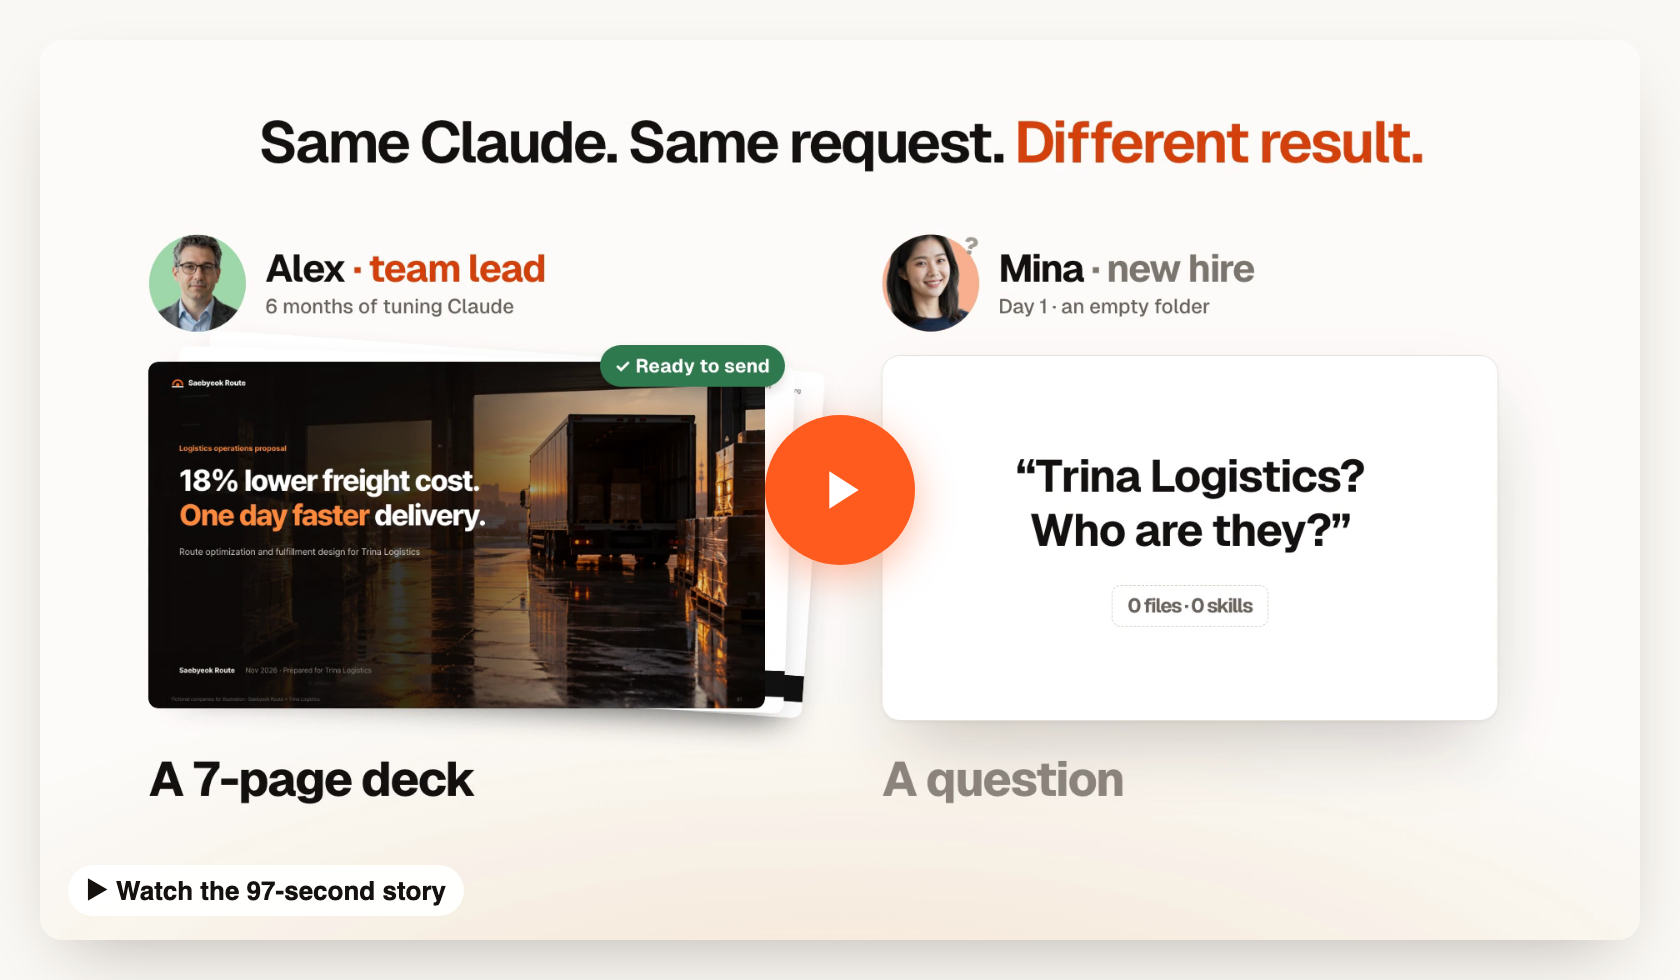
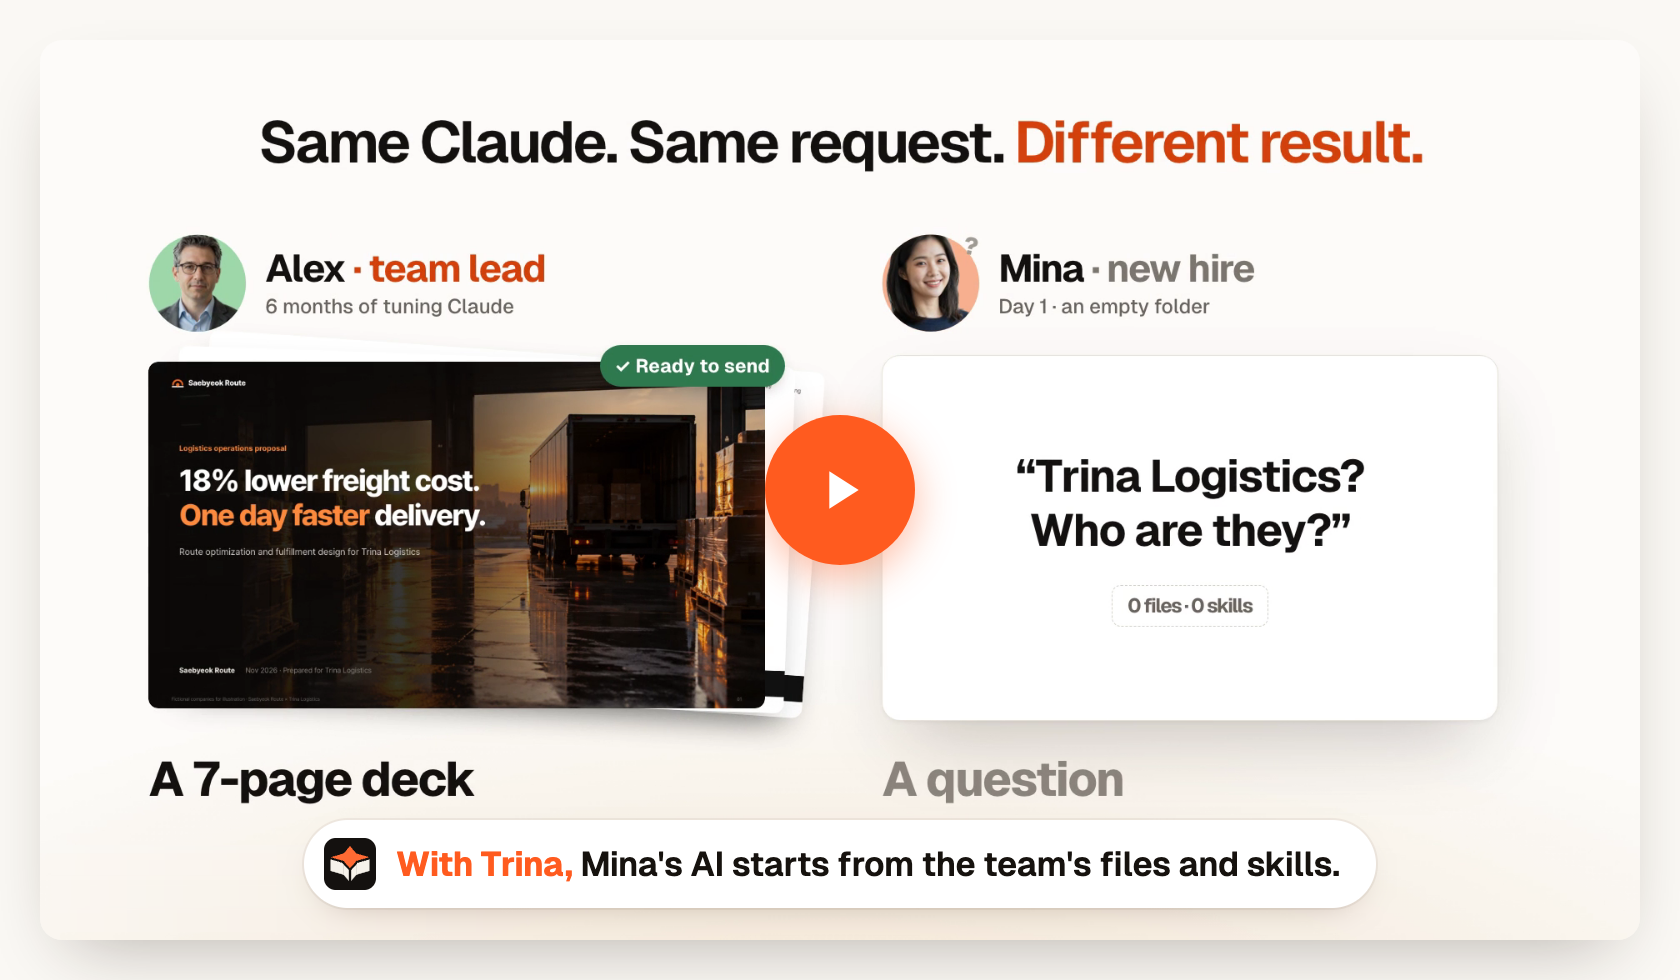
README: one film, one GIF, one picture, then short lines
Like the open-source READMEs people star most: the headline is the claim,
the store badges sit side by side at one height, the film card ends with
what Trina changes, and the cropped screenshot grid is replaced by a GIF of
"send to room" (recorded at README width, so its text stays readable), the
permissions picture and five one-line features.

Changed region(s): [[0.031, 0.8571, 0.8048, 0.949]]

diff --git a/README.md b/README.md
@@ -1,54 +1,43 @@
 <div align="center">
 
-<img src="web/public/favicon.svg" width="72" alt="Trina AX logo">
+<img src="web/public/favicon.svg" width="64" alt="Trina AX logo">
 
-# Trina AX
+<h1>The AI your whole team shares.</h1>
 
-**The AI your whole team shares.**
+Trina AX puts your team's files, skills and tools on one server. Everyone's AI starts from them,<br>and every file it opens is checked as the person who asked.
 
-Your team's files, skills and tools on one server. Everyone's AI starts from them.
+<a href="https://apps.apple.com/app/trina-ax/id6829192435"><img src="docs/images/readme/v3/badge-app-store.svg" height="40" alt="Download on the App Store"></a>&nbsp;&nbsp;<a href="https://play.google.com/store/apps/details?id=app.trina.ax"><img src="docs/images/readme/v3/badge-google-play.png" height="40" alt="Get it on Google Play"></a>
 
-[Website](https://ax.trina.app) · [Download](https://ax.trina.app/download) · [Docs](docs/README.md) · [Discord](https://discord.gg/zUVfSR8MVk) · [X](https://x.com/trina_ax)
-
-<a href="https://apps.apple.com/app/trina-ax/id6829192435"><img src="docs/images/readme/v3/badge-app-store.svg" height="40" alt="Download on the App Store"></a>&nbsp;<a href="https://play.google.com/store/apps/details?id=app.trina.ax"><img src="docs/images/readme/v3/badge-google-play.png" height="58" alt="Get it on Google Play" align="top"></a>
+[Website](https://ax.trina.app) · [Download for Mac and Windows](https://ax.trina.app/download) · [Docs](docs/README.md) · [Discord](https://discord.gg/zUVfSR8MVk)
 
 English · [한국어](README.ko.md) · [日本語](README.ja.md) · [Español](README.es.md) · [简体中文](README.zh-CN.md)
 
-</div>
-
 <br>
 
-<a href="https://ax.trina.app/#watch"><img src="docs/images/readme/v3/film.png" width="100%" alt="Watch the 97-second story: Alex, a team lead, gets a 7-page proposal from one line; Mina, on her first day, asks the same and her AI answers 'Trina Logistics? Who are they?'"></a>
+<a href="https://ax.trina.app/#watch"><img src="docs/images/readme/v3/film.png" width="100%" alt="Watch the 97-second story. Same Claude, same request, different result: Alex, a team lead, gets a 7-page deck; Mina, on her first day with an empty folder, gets 'Trina Logistics? Who are they?'. With Trina, Mina's AI starts from the team's files and skills."></a>
 
-<p align="center"><sub>A new hire's AI starts in an empty folder. Trina gives it the team's.</sub></p>
-
-## How it works
-
-<img src="docs/images/readme/v3/how.png" width="100%" alt="1 Add your files and skills: a Files window with who can open each folder and the Customer quote skill's four steps. 2 Connect your tools: Higgsfield, Notion, Linear, GitHub and your company API go through your Trina server, checked per person; a deck made with Higgsfield photos. 3 Invite your team: Mina, Alex and Sam ask from their own devices, all to one Trina server with their own access.">
+</div>
 
 ## What your team gets
 
-<img src="docs/images/readme/v3/room.png" width="100%" alt="Ask beside any room, send in one click: in the Expo booth crew room, Mina asks Trina in a side chat only she sees, then sends the answer into the room.">
+**Ask beside any room, send in one click.** A side chat only you see; one click sends Trina's answer into the room.
 
-<p>
-<img src="docs/images/readme/v3/access.png" width="49%" alt="Each person sees only what they may open: folders with the faces of who can open them; Mina can't open shared/Finance.">
-<img src="docs/images/readme/v3/handoff.png" width="49%" alt="Pick up a teammate's AI chat: Sam continues Mina's project chat, with his own access.">
-</p>
+<img src="docs/images/readme/v3/room.gif" width="100%" alt="In the Expo booth crew room, Mina asks Trina in a side chat only she sees when move-in is on Nov 17, clicks Send to room, and the answer lands in the room.">
 
-<p>
-<img src="docs/images/readme/v3/skills.png" width="32%" alt="Write down how your team works: the team lead's Customer quote skill, used by Mina, Sam and Jordan.">
-<img src="docs/images/readme/v3/tools.png" width="32%" alt="Connect the tools you use: any MCP server, Google Drive, Slack, your company API.">
-<img src="docs/images/readme/v3/versions.png" width="32%" alt="Every change is kept: Price sheet.xlsx versions by Alex, Mina and Sam, including one saved during an AI answer, with Restore.">
-</p>
+**Each person sees only what they may open.** Mina can't open Finance, so neither can her AI. [How permissions work](docs/PERMISSIONS.md)
 
-<img src="docs/images/readme/v3/access-answers.png" width="100%" alt="Alex and Mina ask 'What was our revenue last quarter?'. Alex can open Finance and gets $498,000; Mina can't, so her AI says it couldn't find revenue figures in the files she can open.">
+<img src="docs/images/readme/v3/access-band.png" width="100%" alt="Folders with the faces of who can open them; Mina can't open shared/Finance.">
 
-Every file the AI opens is checked as the person who asked. [How permissions work](docs/PERMISSIONS.md)
+- 🤝 **Pick up a teammate's AI chat.** Continue their project chat; your turns run with your access.
+- 📋 **Team skills.** Write down how your team works once; everyone's AI follows it.
+- 🔌 **Your tools.** Any MCP server, Google Drive, Slack and your company API, checked per person.
+- 🕘 **Every change is kept.** By a person or their AI; bring back any version.
+- 📱 **Every device.** Mac, iPhone, Android, Windows and any browser.
 
 ## Get started
 
-- **Trina hosting:** no server to run. 14-day free trial, then a monthly plan. [Plans](https://ax.trina.app/#pricing)
-- **Apps:** Mac, iPhone, Android and Windows, or any browser. [Download](https://ax.trina.app/download)
+- **Trina hosting:** no server to run. 14-day free trial, then a monthly plan. [Pricing](https://ax.trina.app/pricing)
+- **Apps:** [Mac, iPhone, Android and Windows](https://ax.trina.app/download), or any browser.
 - **Self-host:** your own Linux server, Docker or an office Mac. Free. [Linux](docs/INSTALL-LINUX.en.md) · [Docker](docs/INSTALL-DOCKER.md) · [Office Mac](docs/OFFICE.en.md)
 
 <details>

diff --git a/README.es.md b/README.es.md
@@ -10,7 +10,7 @@ Los archivos, las skills y las herramientas de tu equipo en un solo servidor. La
 
 [Sitio web](https://ax.trina.app) · [Descargar](https://ax.trina.app/download) · [Documentación](docs/README.md) · [Discord](https://discord.gg/zUVfSR8MVk) · [X](https://x.com/trina_ax)
 
-<a href="https://apps.apple.com/app/trina-ax/id6829192435"><img src="docs/images/readme/v3/badge-app-store.svg" height="40" alt="Descargar en el App Store"></a>&nbsp;<a href="https://play.google.com/store/apps/details?id=app.trina.ax"><img src="docs/images/readme/v3/badge-google-play.png" height="58" alt="Disponible en Google Play" align="top"></a>
+<a href="https://apps.apple.com/app/trina-ax/id6829192435"><img src="docs/images/readme/v3/badge-app-store.svg" height="40" alt="Descargar en el App Store"></a>&nbsp;<a href="https://play.google.com/store/apps/details?id=app.trina.ax"><img src="docs/images/readme/v3/badge-google-play.png" height="40" alt="Disponible en Google Play"></a>
 
 [English](README.md) · [한국어](README.ko.md) · [日本語](README.ja.md) · Español · [简体中文](README.zh-CN.md)
 

diff --git a/README.ja.md b/README.ja.md
@@ -10,7 +10,7 @@
 
 [Web サイト](https://ax.trina.app) · [ダウンロード](https://ax.trina.app/download) · [ドキュメント](docs/README.md) · [Discord](https://discord.gg/zUVfSR8MVk) · [X](https://x.com/trina_ax)
 
-<a href="https://apps.apple.com/app/trina-ax/id6829192435"><img src="docs/images/readme/v3/badge-app-store.svg" height="40" alt="App Store からダウンロード"></a>&nbsp;<a href="https://play.google.com/store/apps/details?id=app.trina.ax"><img src="docs/images/readme/v3/badge-google-play.png" height="58" alt="Google Play で手に入れよう" align="top"></a>
+<a href="https://apps.apple.com/app/trina-ax/id6829192435"><img src="docs/images/readme/v3/badge-app-store.svg" height="40" alt="App Store からダウンロード"></a>&nbsp;<a href="https://play.google.com/store/apps/details?id=app.trina.ax"><img src="docs/images/readme/v3/badge-google-play.png" height="40" alt="Google Play で手に入れよう"></a>
 
 [English](README.md) · [한국어](README.ko.md) · 日本語 · [Español](README.es.md) · [简体中文](README.zh-CN.md)
 

diff --git a/README.ko.md b/README.ko.md
@@ -10,7 +10,7 @@
 
 [웹사이트](https://ax.trina.app) · [다운로드](https://ax.trina.app/download) · [문서](docs/README.md) · [Discord](https://discord.gg/zUVfSR8MVk) · [X](https://x.com/trina_ax)
 
-<a href="https://apps.apple.com/kr/app/id6829192435"><img src="docs/images/readme/v3/badge-app-store.svg" height="40" alt="App Store에서 다운로드"></a>&nbsp;<a href="https://play.google.com/store/apps/details?id=app.trina.ax"><img src="docs/images/readme/v3/badge-google-play.png" height="58" alt="Google Play에서 다운로드" align="top"></a>
+<a href="https://apps.apple.com/kr/app/id6829192435"><img src="docs/images/readme/v3/badge-app-store.svg" height="40" alt="App Store에서 다운로드"></a>&nbsp;<a href="https://play.google.com/store/apps/details?id=app.trina.ax"><img src="docs/images/readme/v3/badge-google-play.png" height="40" alt="Google Play에서 다운로드"></a>
 
 [English](README.md) · 한국어 · [日本語](README.ja.md) · [Español](README.es.md) · [简体中文](README.zh-CN.md)
 

diff --git a/README.zh-CN.md b/README.zh-CN.md
@@ -10,7 +10,7 @@
 
 [官网](https://ax.trina.app) · [下载](https://ax.trina.app/download) · [文档](docs/README.md) · [Discord](https://discord.gg/zUVfSR8MVk) · [X](https://x.com/trina_ax)
 
-<a href="https://apps.apple.com/app/trina-ax/id6829192435"><img src="docs/images/readme/v3/badge-app-store.svg" height="40" alt="在 App Store 下载"></a>&nbsp;<a href="https://play.google.com/store/apps/details?id=app.trina.ax"><img src="docs/images/readme/v3/badge-google-play.png" height="58" alt="在 Google Play 下载" align="top"></a>
+<a href="https://apps.apple.com/app/trina-ax/id6829192435"><img src="docs/images/readme/v3/badge-app-store.svg" height="40" alt="在 App Store 下载"></a>&nbsp;<a href="https://play.google.com/store/apps/details?id=app.trina.ax"><img src="docs/images/readme/v3/badge-google-play.png" height="40" alt="在 Google Play 下载"></a>
 
 [English](README.md) · [한국어](README.ko.md) · [日本語](README.ja.md) · [Español](README.es.md) · 简体中文
 
